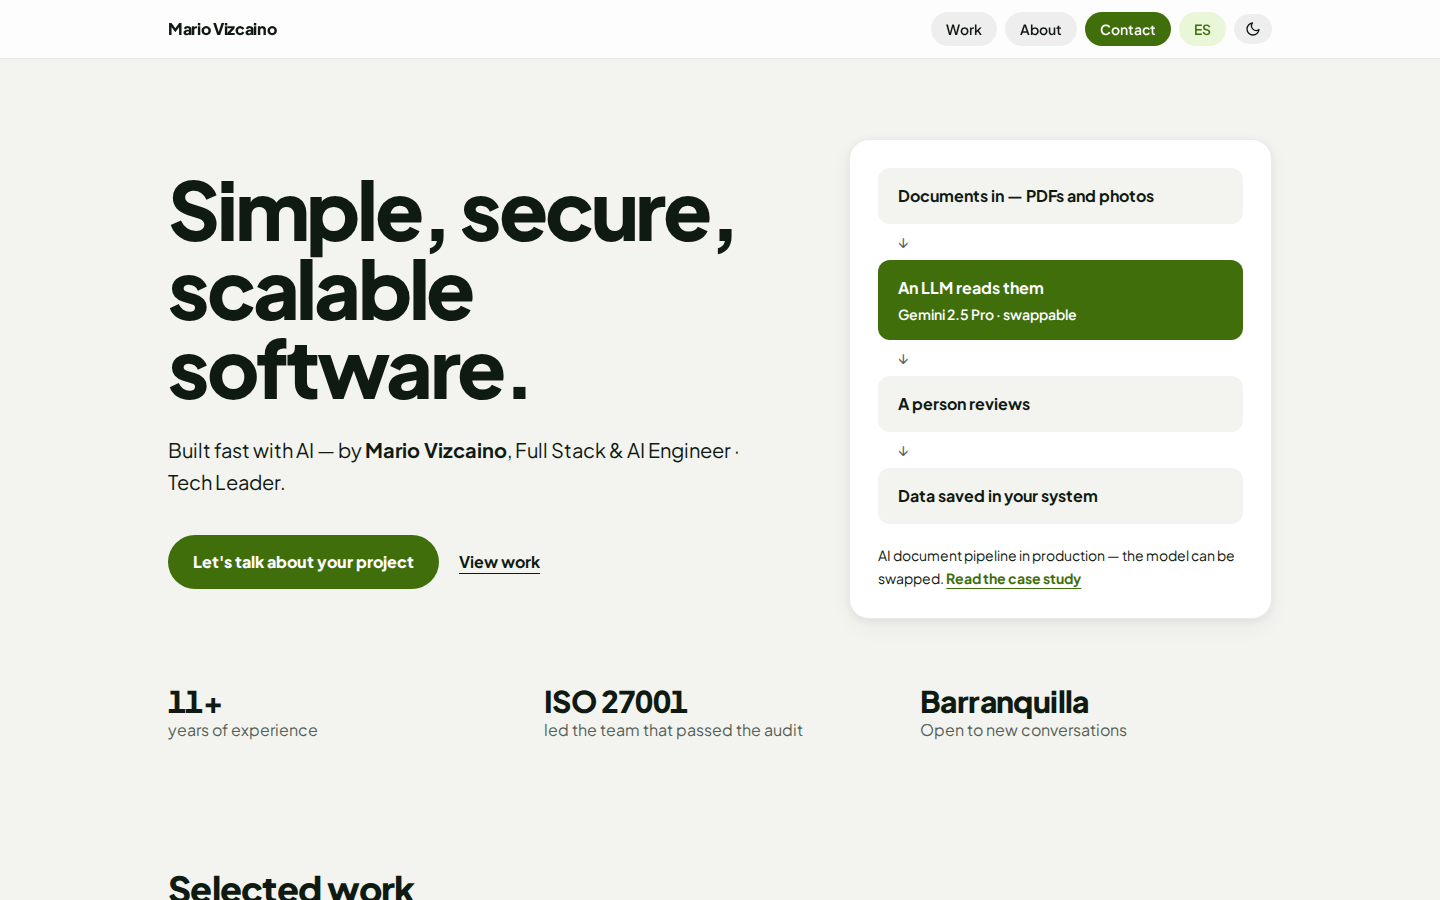
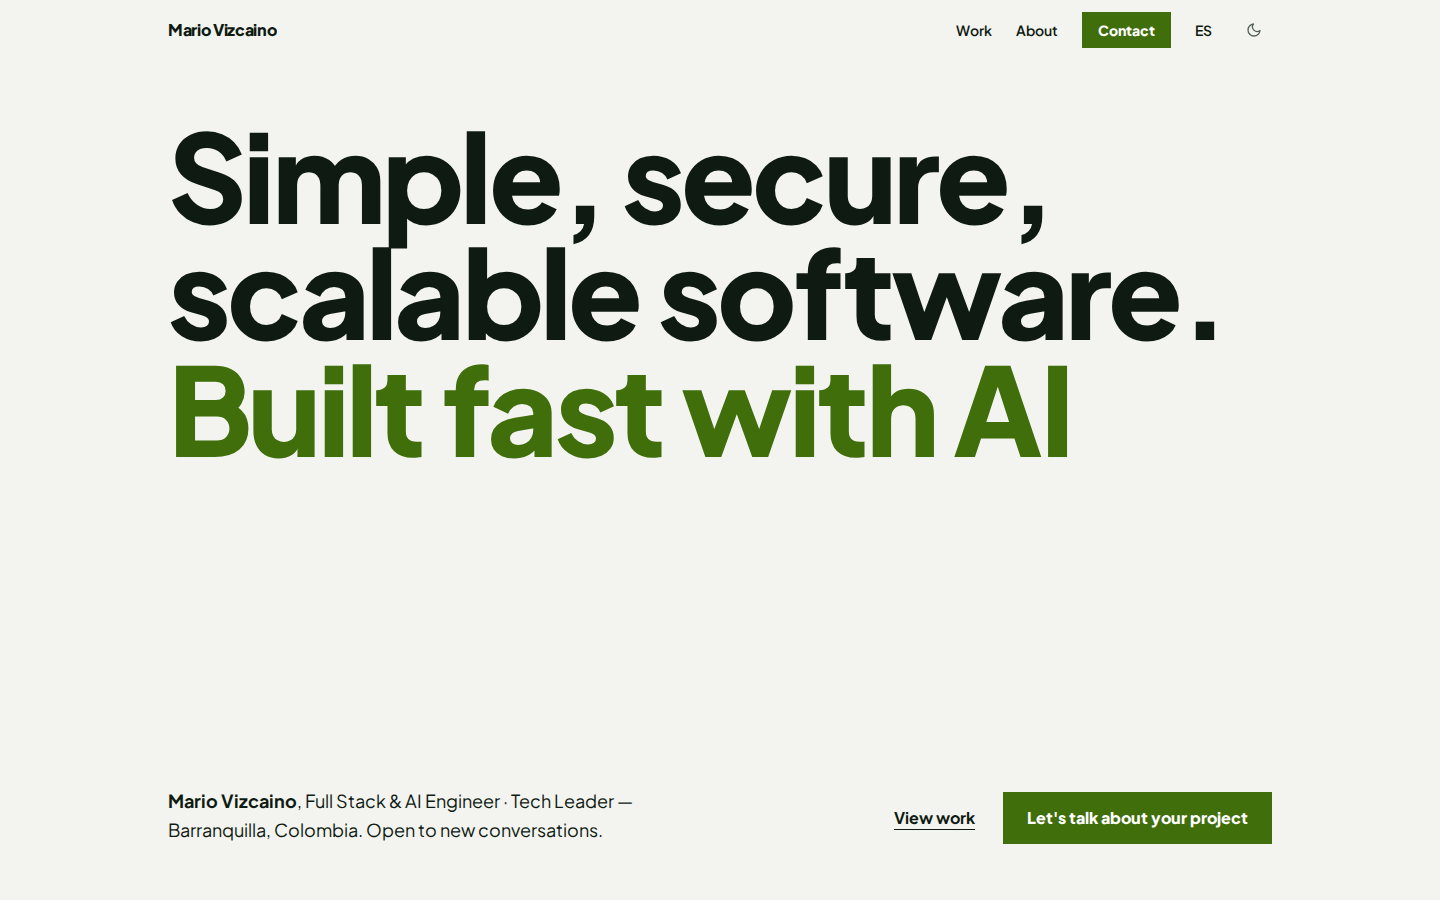
restyle(site): project pages, 404, coming-soon, cleanup, new covers
Project pages: statement title, flat meta, square buttons, lime CTA band,
plain prev/next. 404: display heading, flat buttons, terminal kept as data-ui
fragment (mono moved into .tile-dark). Coming-soon: lime statement field, no
decorative shapes. Gallery: flat thumbs, square dialog, btn close.

global.css: removed dead .tile/.tile-hover/.pill*/.chip/.eyebrow, pill/shadow/
radius/chip-purple-blue-green tokens; skip link flat; min-h-svh.

Regenerated portfolio-site cover + gallery screenshots from the restyled site
(Playwright in Docker) and updated their alt texts. AGENTS.md reflects the new
style system and the retired hero pipeline panel. Backlog: merge decision entry.

taste-skill lint 0 FAIL. Lighthouse 99-100 on /, /es/, project page.
check + 100 unit + 18 e2e pass.

diff --git a/src/styles/global.css b/src/styles/global.css
@@ -19,22 +19,12 @@
   --accent: #3f6e0b;
   --accent-soft: rgba(132, 204, 22, 0.16);
   --on-accent: #ffffff;
-  --pill-bg: rgba(0, 0, 0, 0.06);
-  --pill-bg-hover: rgba(0, 0, 0, 0.11);
-  /* Lime field (contact block, coming-soon) with ink text, same in both modes. */
+  /* Lime field (contact band, coming-soon) with ink text, same in both modes. */
   --field: #b8f24a;
   --on-field: #0c100d;
-  --chip-purple: var(--accent);
-  --chip-purple-bg: var(--accent-soft);
   --chip-orange: #9f5700;
   --chip-orange-bg: rgba(255, 159, 10, 0.15);
-  --chip-blue: var(--accent);
-  --chip-blue-bg: var(--accent-soft);
-  --chip-green: var(--accent);
-  --chip-green-bg: var(--accent-soft);
   --footer-bg: #0c100d;
-  --shadow-sm: 0 2px 8px rgba(0, 0, 0, 0.06), 0 8px 24px rgba(0, 0, 0, 0.04);
-  --shadow-md: 0 4px 16px rgba(0, 0, 0, 0.08), 0 16px 40px rgba(0, 0, 0, 0.07);
   color-scheme: light;
 }
 
@@ -48,13 +38,9 @@
   --accent: #b8f24a;
   --accent-soft: rgba(184, 242, 74, 0.14);
   --on-accent: #0c100d;
-  --pill-bg: rgba(255, 255, 255, 0.08);
-  --pill-bg-hover: rgba(255, 255, 255, 0.15);
   --chip-orange: #ff9f0a;
   --chip-orange-bg: rgba(255, 159, 10, 0.2);
   --footer-bg: #070a08;
-  --shadow-sm: none;
-  --shadow-md: none;
   color-scheme: dark;
 }
 
@@ -67,18 +53,10 @@
   --color-accent: var(--accent);
   --color-accent-soft: var(--accent-soft);
   --color-on-accent: var(--on-accent);
-  --color-chip-purple: var(--chip-purple);
-  --color-chip-purple-bg: var(--chip-purple-bg);
   --color-chip-orange: var(--chip-orange);
   --color-chip-orange-bg: var(--chip-orange-bg);
-  --color-chip-blue: var(--chip-blue);
-  --color-chip-blue-bg: var(--chip-blue-bg);
-  --color-chip-green: var(--chip-green);
-  --color-chip-green-bg: var(--chip-green-bg);
   --font-sans: 'Plus Jakarta Sans Variable', system-ui, sans-serif;
-  --font-mono: ui-monospace, 'SF Mono', monospace;
-  --radius-tile: 20px;
-  --radius-block: 24px;
+  --font-mono: ui-monospace, 'SF Mono', monospace; /* taste-skill-ignore */
 }
 
 /* Heavy display type used for every heading. */
@@ -168,18 +146,13 @@ html {
     background: #26302a;
   }
 
-  .tile {
-    background: var(--surface);
-    border: 1px solid var(--line);
-    border-radius: var(--radius-tile);
-    box-shadow: var(--shadow-sm);
-  }
-
+  /* 404 terminal window (data-ui): literal shell output. */
   .tile-dark {
+    font-family: var(--font-mono); /* taste-skill-ignore */
     background: #1d1d1f;
     color: #f5f5f7;
-    border: 1px solid rgba(255, 255, 255, 0.08);
-    border-radius: var(--radius-tile);
+    border: 1px solid rgba(255, 255, 255, 0.08); /* taste-skill-ignore: terminal window chrome (data-ui) */
+    border-radius: 20px;
   }
 
   .hero-surface {
@@ -187,98 +160,7 @@ html {
     background: var(--field);
   }
 
-  /* Small data label (project year/role/stack, 404): sentence case, no tracking. */
-  .eyebrow {
-    font-size: 0.875rem;
-    font-weight: 600;
-    color: var(--muted);
-  }
-
-  .pill {
-    display: inline-flex;
-    align-items: center;
-    gap: 0.375rem;
-    border-radius: 9999px;
-    padding: 0.375rem 0.875rem;
-    font-size: 0.875rem;
-    font-weight: 600;
-    line-height: 1.25rem;
-    border: 1px solid transparent;
-  }
-  .pill-neutral {
-    background: var(--pill-bg);
-    color: var(--fg);
-  }
-  .pill-soft {
-    background: var(--accent-soft);
-    color: var(--accent);
-  }
-  .pill-accent {
-    background: var(--accent);
-    color: var(--on-accent);
-  }
-  .pill-outline {
-    border-color: var(--line-strong);
-    color: var(--fg);
-  }
-  /* "white" = high-contrast pills on the lime field (names kept to avoid churn). */
-  .pill-white {
-    background: var(--on-field);
-    color: var(--field);
-  }
-  .pill-outline-white {
-    border-color: rgba(12, 16, 13, 0.55);
-    color: var(--on-field);
-  }
-  /* Hover states only for interactive pills (static list pills stay put). */
-  a.pill-neutral:hover,
-  button.pill-neutral:hover,
-  a.pill-outline:hover {
-    background: var(--pill-bg-hover);
-  }
-  a.pill-soft:hover {
-    border-color: var(--accent);
-  }
-  a.pill-accent:hover {
-    filter: brightness(1.1);
-  }
-  a.pill-white:hover {
-    background: #26302a;
-  }
-  a.pill-outline-white:hover {
-    background: rgba(12, 16, 13, 0.08);
-    border-color: var(--on-field);
-  }
-
-  .chip {
-    display: inline-flex;
-    align-items: center;
-    justify-content: center;
-    width: 2.5rem;
-    height: 2.5rem;
-    border-radius: 12px;
-    flex-shrink: 0;
-  }
-
   @media (prefers-reduced-motion: no-preference) {
-    a.pill,
-    button.pill {
-      transition:
-        background-color 0.15s ease,
-        border-color 0.15s ease,
-        filter 0.15s ease;
-    }
-    .tile-hover {
-      transition:
-        transform 0.2s ease,
-        box-shadow 0.2s ease,
-        border-color 0.2s ease;
-    }
-    .tile-hover:hover {
-      transform: translateY(-2px);
-      box-shadow: var(--shadow-md);
-      border-color: var(--line-strong);
-    }
     .fade-up {
       /* backwards (not both): no transform is held after the animation, so hover lift works. */
       animation: fade-up 0.5s cubic-bezier(0.2, 0.7, 0.2, 1) backwards;

diff --git a/src/components/react/ImageGallery.tsx b/src/components/react/ImageGallery.tsx
@@ -38,7 +38,7 @@ export default function ImageGallery({ images, labels }: Props) {
               type="button"
               onClick={() => open(img)}
               aria-label={`${labels.open}: ${img.alt}`}
-              className="block w-full overflow-hidden rounded-2xl border border-line bg-surface"
+              className="block w-full overflow-hidden bg-surface"
             >
               <img
                 src={img.thumb}
@@ -58,7 +58,7 @@ export default function ImageGallery({ images, labels }: Props) {
         aria-label={active?.alt ?? labels.open}
         onClose={() => setActive(null)}
         onClick={(e) => e.target === dialog.current && dialog.current?.close()}
-        className="m-auto max-h-[90vh] max-w-[90vw] rounded-tile bg-surface p-0 backdrop:bg-black/70"
+        className="m-auto max-h-[90vh] max-w-[90vw] bg-surface p-0 backdrop:bg-black/70"
       >
         {active && (
           <figure className="relative">
@@ -71,7 +71,7 @@ export default function ImageGallery({ images, labels }: Props) {
               type="button"
               autoFocus
               onClick={() => dialog.current?.close()}
-              className="pill pill-neutral absolute right-3 top-3 bg-surface"
+              className="btn btn-ink absolute top-3 right-3 min-h-0 px-4 py-2"
             >
               {labels.close}
             </button>

diff --git a/AGENTS.md b/AGENTS.md
@@ -20,13 +20,13 @@ Personal portfolio of Mario Vizcaino. Astro 7 static site, bilingual (EN default
 ## Layout
 
 - `src/content/projects/{en,es}/<slug>.mdx` — one file per project per language; same slug links translations. Schema in `src/content.config.ts`.
-- `src/content/profile/{en,es}.yaml` — fullName (optional legal name: footer + JSON-LD `alternateName`; also written in the bio so it is visible text), alternateNames (other search combinations, JSON-LD only), bio, services, experience, education, certifications (both optional, default `[]`; the Education section hides when both are empty), heroFacts (optional, max 2 `{value, label}` proof points under the home hero, between the computed years and the location), services (each may set optional `tools` and `project` — the slug of the project that proves it; they feed the home "What do you need built?" picker in `Services.astro`: radios + `:has()`, no JavaScript), stack (frontend, backend, tools and `practices` — security & quality standards shown as skills in About, not as a service), contact. There is deliberately no CV download (visitors must contact first); do not add a `cv` field or public PDF.
+- `src/content/profile/{en,es}.yaml` — fullName (optional legal name: footer + JSON-LD `alternateName`; also written in the bio so it is visible text), alternateNames (other search combinations, JSON-LD only), bio, services, experience, education, certifications (both optional, default `[]`; the Education section hides when both are empty), heroFacts (optional, max 2 `{value, label}` proof points, shown in the home "In numbers" chapter (`Stats.astro`) together with the computed years, first-experience year, project and certification counts), services (each may set optional `tools` and `project` — the slug of the project that proves it; they feed the home "What do you need built?" picker in `Services.astro`: radios + `:has()`, no JavaScript), stack (frontend, backend, tools and `practices` — security & quality standards shown as skills in About, not as a service), contact. There is deliberately no CV download (visitors must contact first); do not add a `cv` field or public PDF.
 - `src/i18n/{en,es}.json` — UI strings; keys must match in both files (unit test enforces it).
 - `src/lib/` — `projects.ts` (localization/fallback), `sitemap.ts` (fallback-page sitemap exclusion), `seo.ts`, `llms.ts`, `robots.ts`, `theme.ts`, `webmcp-tools.ts`, `site-data.ts` (only file that reads collections).
 - `src/views/` — page bodies shared by EN/ES routes in `src/pages/`.
-- Design tokens in `src/styles/global.css` ("Lime on ink": dark by default (`resolveTheme()` + inline script in `BaseLayout.astro`; light only when the visitor picks it), near-black canvas with a green tint, lime `#b8f24a` as the one accent, flat lime field for `.hero-surface`, Plus Jakarta Sans 800 headings). Shared component classes there: `.tile`, `.tile-hover`, `.pill*`, `.chip`, `.eyebrow` (small muted data label, sentence case — no uppercase labels above section titles), `.hero-surface` (lime field: home contact and the end-of-project "Have a similar problem?" CTA), `heavy` utility.
+- Design tokens in `src/styles/global.css` ("Lime on ink": dark by default (`resolveTheme()` + inline script in `BaseLayout.astro`; light only when the visitor picks it), near-black canvas with a green tint, lime `#b8f24a` as the one accent, flat lime field for `.hero-surface` and the home contact band, Plus Jakarta Sans 800 headings). Style direction (taste-skill "type-only-statement"): full-bleed colour chapters, big type, square buttons, no pills/eyebrows/card grids/shadows at rest. Shared classes there: `.chapter` + `.chapter-inner` (full-bleed field + 72rem container), `.t-display` / `.t-large` (type steps), `.btn` / `.btn-ink` (the one button shape), `.field-invert` (light chapter), `.hero-surface` (lime field: home contact band and the end-of-project "Have a similar problem?" CTA), `.tile-dark` (404 terminal only), `.fade-up` (scroll entrance via `animation-timeline: view()` where supported), `heavy` utility.
 - Favicons (`public/favicon-{32,48}.png`, `apple-touch-icon.png`, `icon-{192,512}.png`) are generated from the monogram `src/assets/brand/avatar.png` (512×512, rendered with Playwright) by `scripts/favicons.mjs` (`make favicons`; small sizes get a circle mask); `public/site.webmanifest` references the 192/512 icons. Regenerate after changing the avatar.
-- `src/lib/profile.ts` — `yearsOfExperience()` and `splitHeadline()` for the home hero (`src/components/astro/HomeHero.astro`: headline split at " — " into h1 + lead, CTA mailto with subject, AI pipeline panel linking to the featured project, facts row).
+- `src/lib/profile.ts` — `yearsOfExperience()` and `splitHeadline()` for the home hero (`src/components/astro/HomeHero.astro`: full-viewport statement — headline split at " — " into h1 + lead line in lime, supporting sentence bottom-left, CTA mailto button bottom-right).
 - Social preview images: `src/assets/brand/og-{en,es}.png`, generated by `scripts/og-image.mjs` (`make og`) from the profile YAMLs. They live in `src/assets` (not `public/`) so Astro emits them with a content hash — a new URL on every change forces WhatsApp/LinkedIn/X to refresh cached previews. Run `make og` after changing name, role or headline.
 
 ## Production mode
@@ -35,7 +35,7 @@ Personal portfolio of Mario Vizcaino. Astro 7 static site, bilingual (EN default
 
 ## Content rules (owner preferences)
 
-- Projects are ordered by `order` (ascending). The AI document extraction project (`ai-document-extraction`, `order: 0`) must always stay first; the home hero's AI pipeline panel links to it.
+- Projects are ordered by `order` (ascending). The AI document extraction project (`ai-document-extraction`, `order: 0`) must always stay first; it opens the home "Selected work" chapter (the old hero pipeline panel was retired with the 2026-11 restyle).
 - `confidential: true` marks anonymized case studies (lock chip + notice, no links/screenshots). For the owner's current employer, never name clients, internal systems, prompts, data fields, volumes, costs or exact metrics; describe the problem, architecture, role and a qualitative result. Diagrams instead of screenshots.
 - No personal photo anywhere (the "mv." monogram in `src/assets/brand/avatar.png` — off-white "mv" + lime dot on ink — is the icon/branding; the brand handle everywhere is `mariovzc`). No CV download.
 - Public contact email is `vzcdeveloper@gmail.com` (not the personal address). Location: Barranquilla, Colombia.

diff --git a/docs/BACKLOG.md b/docs/BACKLOG.md
@@ -5,6 +5,15 @@ date) or when a new idea comes up. Last reviewed: 2026-10-18.
 
 Priority: **P1** = soon / high impact · **P2** = valuable, not urgent · **P3** = nice to have.
 
+## Restyle (branch `restyle/type-statement`)
+
+- [ ] **P1 · Merge decision** — 2026-11 restyle (taste-skill "type-only-statement": full-bleed colour
+      chapters, statement hero, square buttons, one-word lime CTA band, cropped `mariovzc` footer wordmark).
+      Home + project pages + 404 + coming-soon done on the branch; owner validates before merging to master
+      (push deploys). After merge: re-check social previews (covers changed) and delete the branch.
+- [ ] **P2 · Restyle polish** — defended inspector WARNs: no video on the page (nothing honest to show under
+      NDA) and the two giant display sizes (CTA word + footer wordmark). Revisit if a honest clip appears.
+
 ## Launch follow-up
 
 - [ ] **P1 · ~2026-10-25 · Sitemap status** — Search Console → Sitemaps: `sitemap-index.xml?v=2` and
